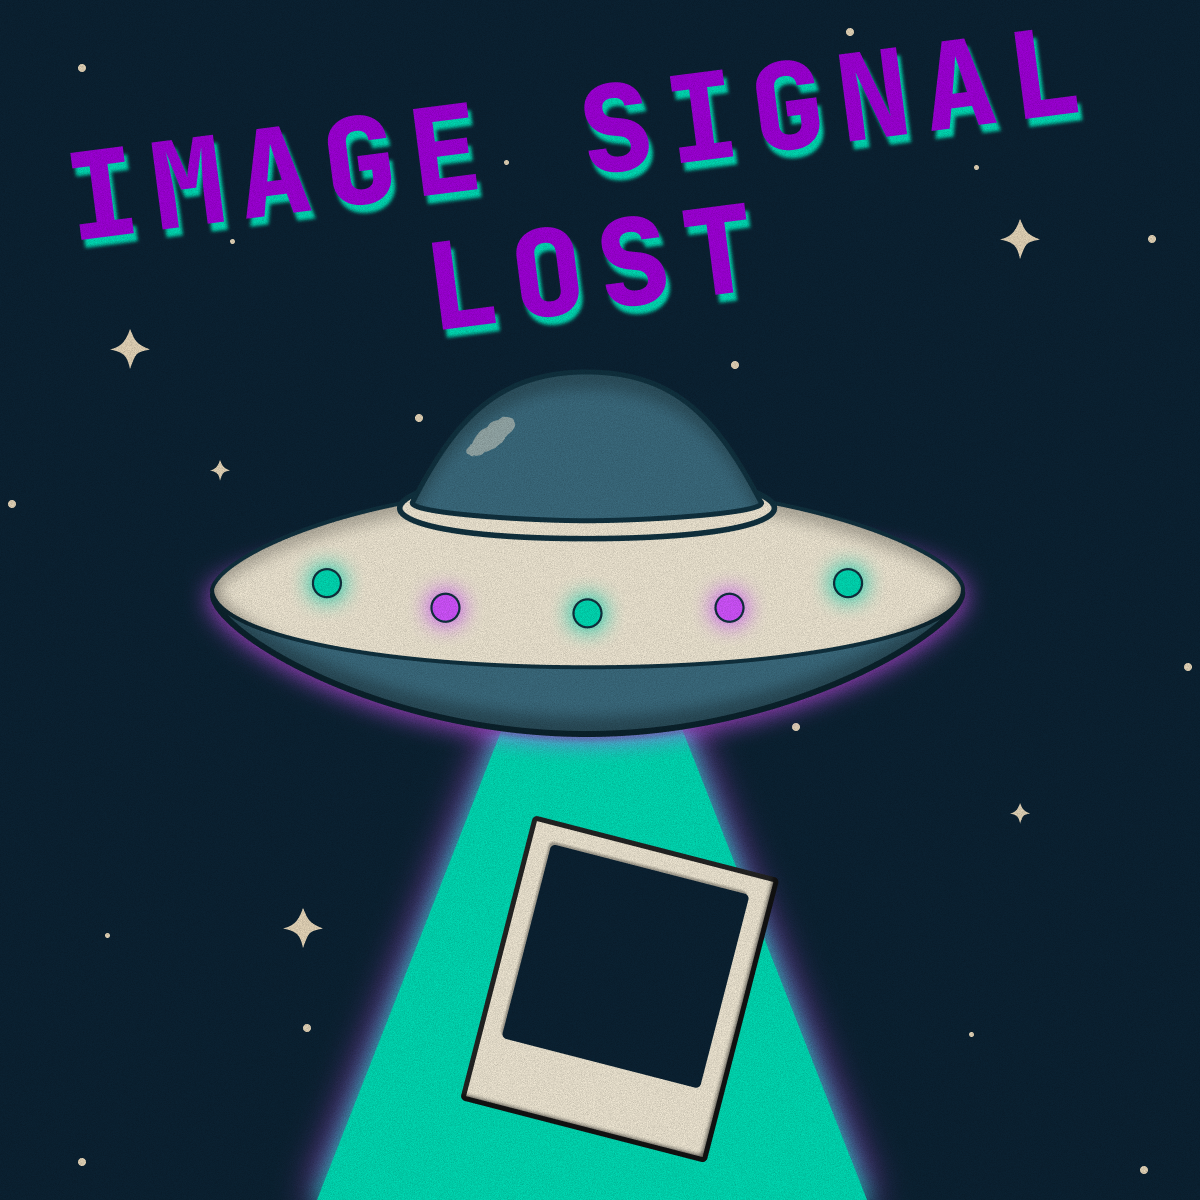
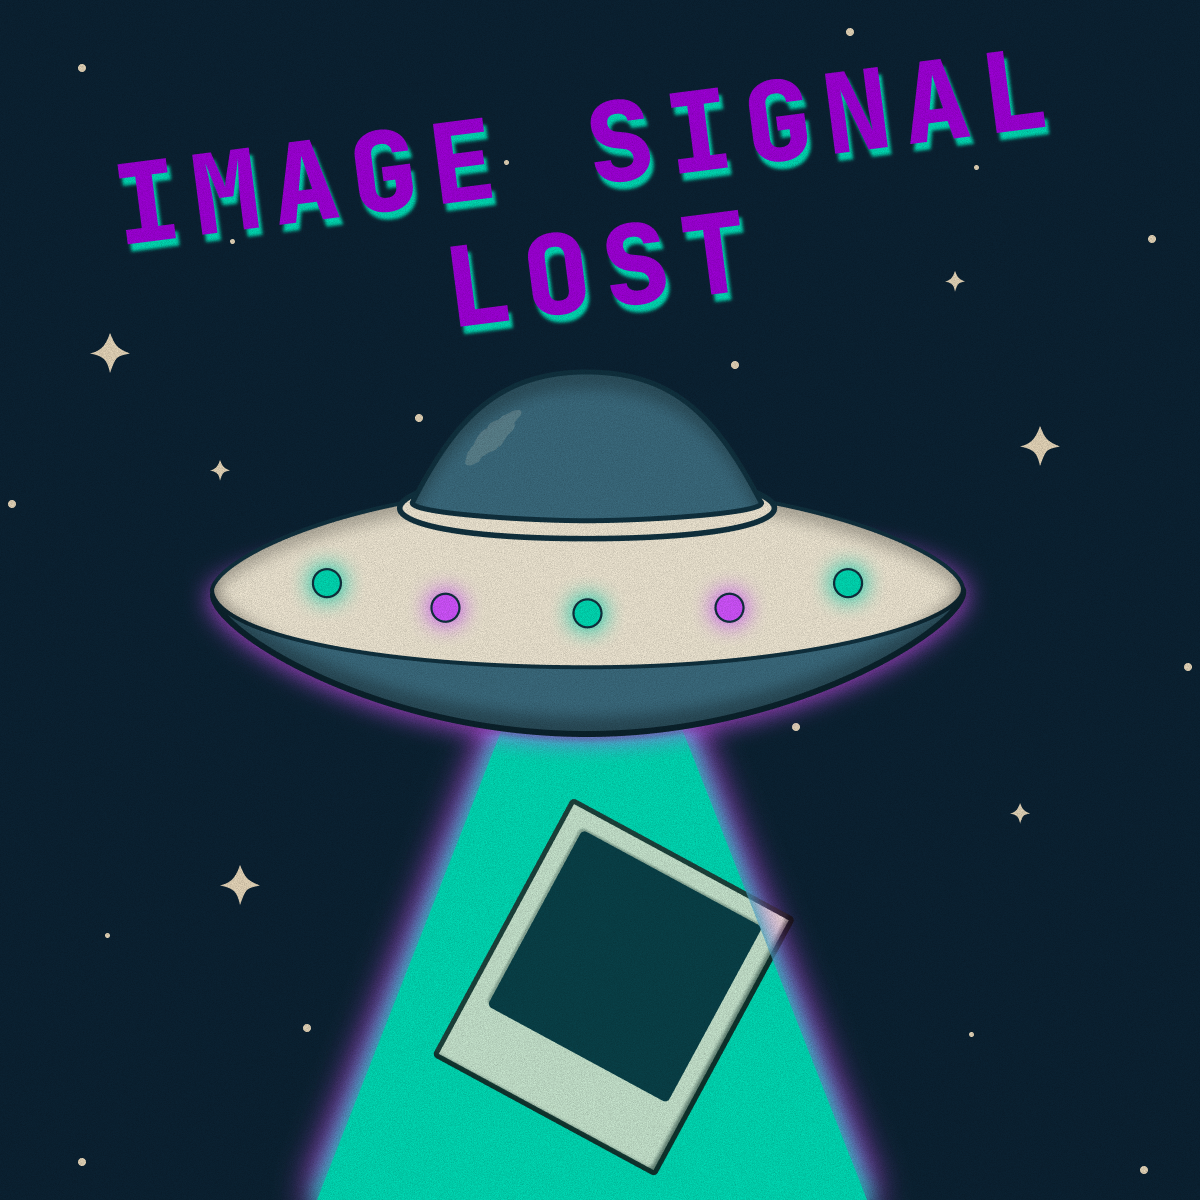
tweaks fallback image behaviors

diff --git a/frontend/src/pages/projects/ProjectDetails.jsx b/frontend/src/pages/projects/ProjectDetails.jsx
@@ -146,13 +146,17 @@ const ProjectDetails = () => {
 					>
 						<Image
 							src={project.image}
-							fallbackSrc={fallbackImage}
-							alt={`${project.title} image.\nCloudinary blocked or inaccessible.`}
+							alt={`${project.title} image.`}
 							maxH='100%'
 							maxW='100%'
 							float='right'
 							borderRadius='10px'
 							boxShadow={["0 0 10px #D253FF", "0 0 30px #D253FF"]}
+							onError={(e) => {
+								const img = e.currentTarget
+								img.onerror = null // avoid infinite loop
+								img.src = fallbackImage
+							}}
 						/>
 					</Box>
 				</Flex>

diff --git a/frontend/src/pages/projects/Projects.jsx b/frontend/src/pages/projects/Projects.jsx
@@ -38,12 +38,16 @@ const Projects = () => {
 					<Image
 						src={projects[route].image}
 						alt={`${projects[route].title} image`}
-						fallbackSrc={fallbackImage}
 						h='50px'
 						w='100%'
 						objectFit='cover'
 						objectPosition='top'
 						borderTopRadius='md'
+						onError={(e) => {
+							const img = e.currentTarget
+							img.onerror = null // avoid infinite loop
+							img.src = fallbackImage
+						}}
 					/>
 				</CardHeader>
 				<CardBody as='header'>
